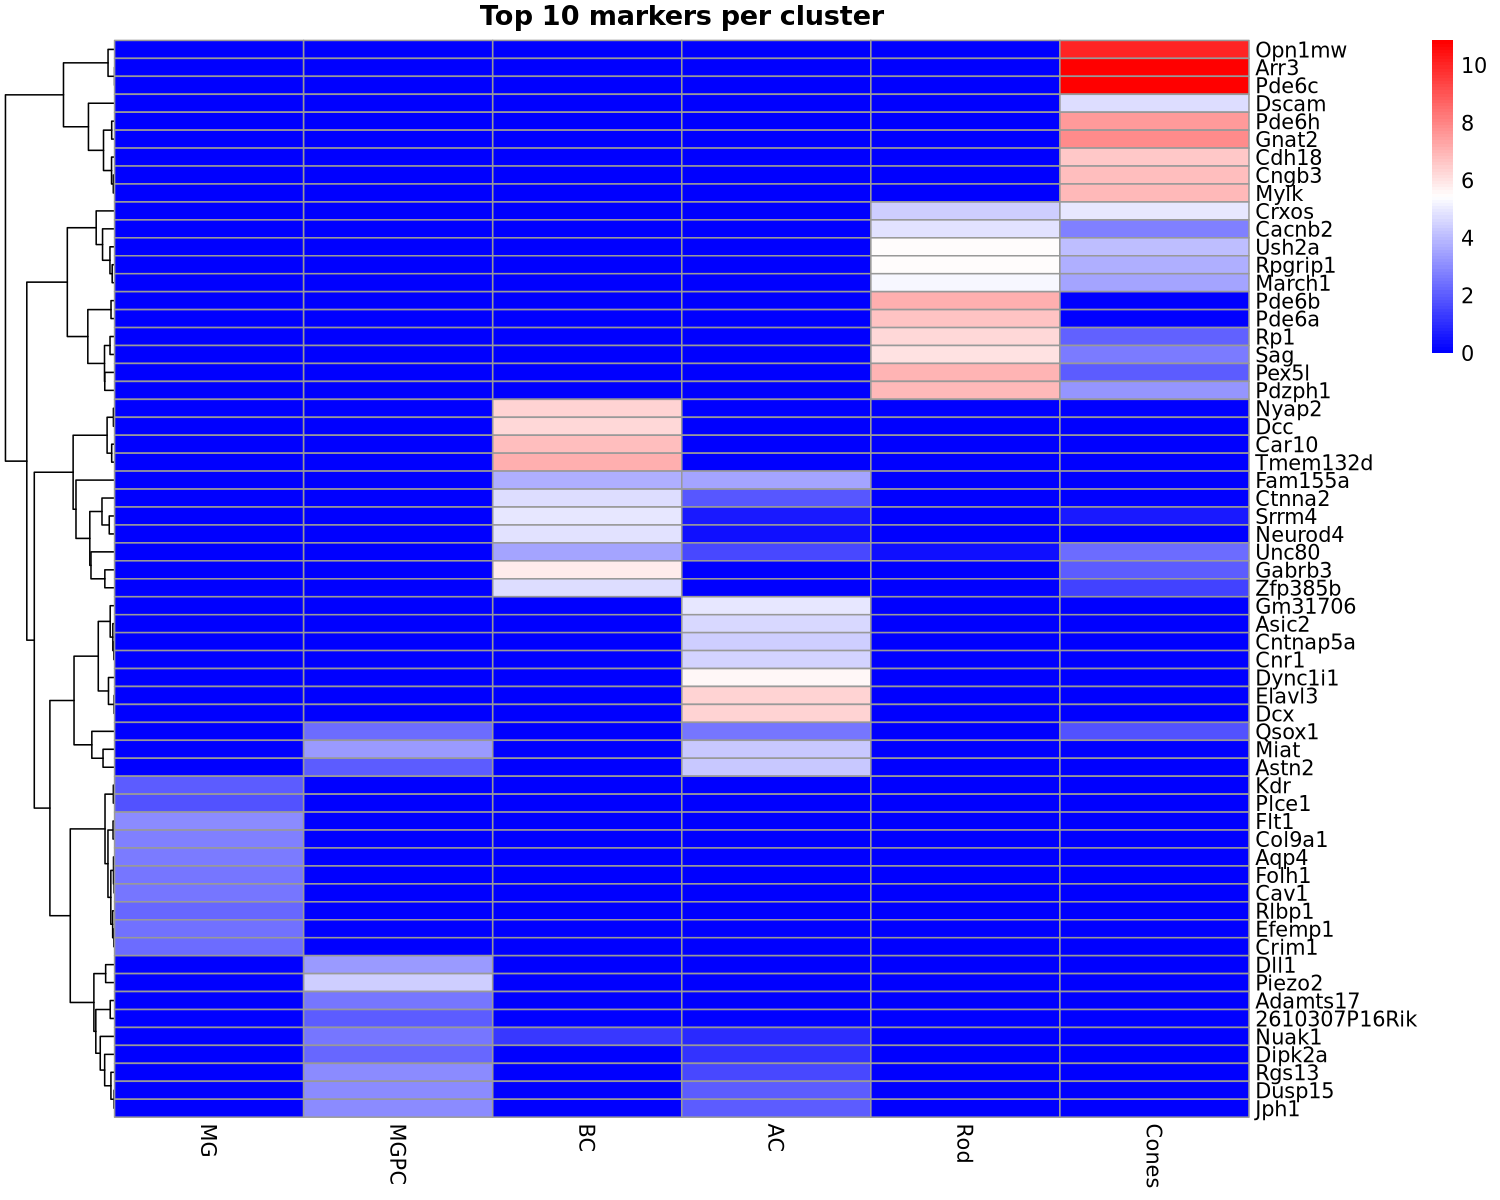
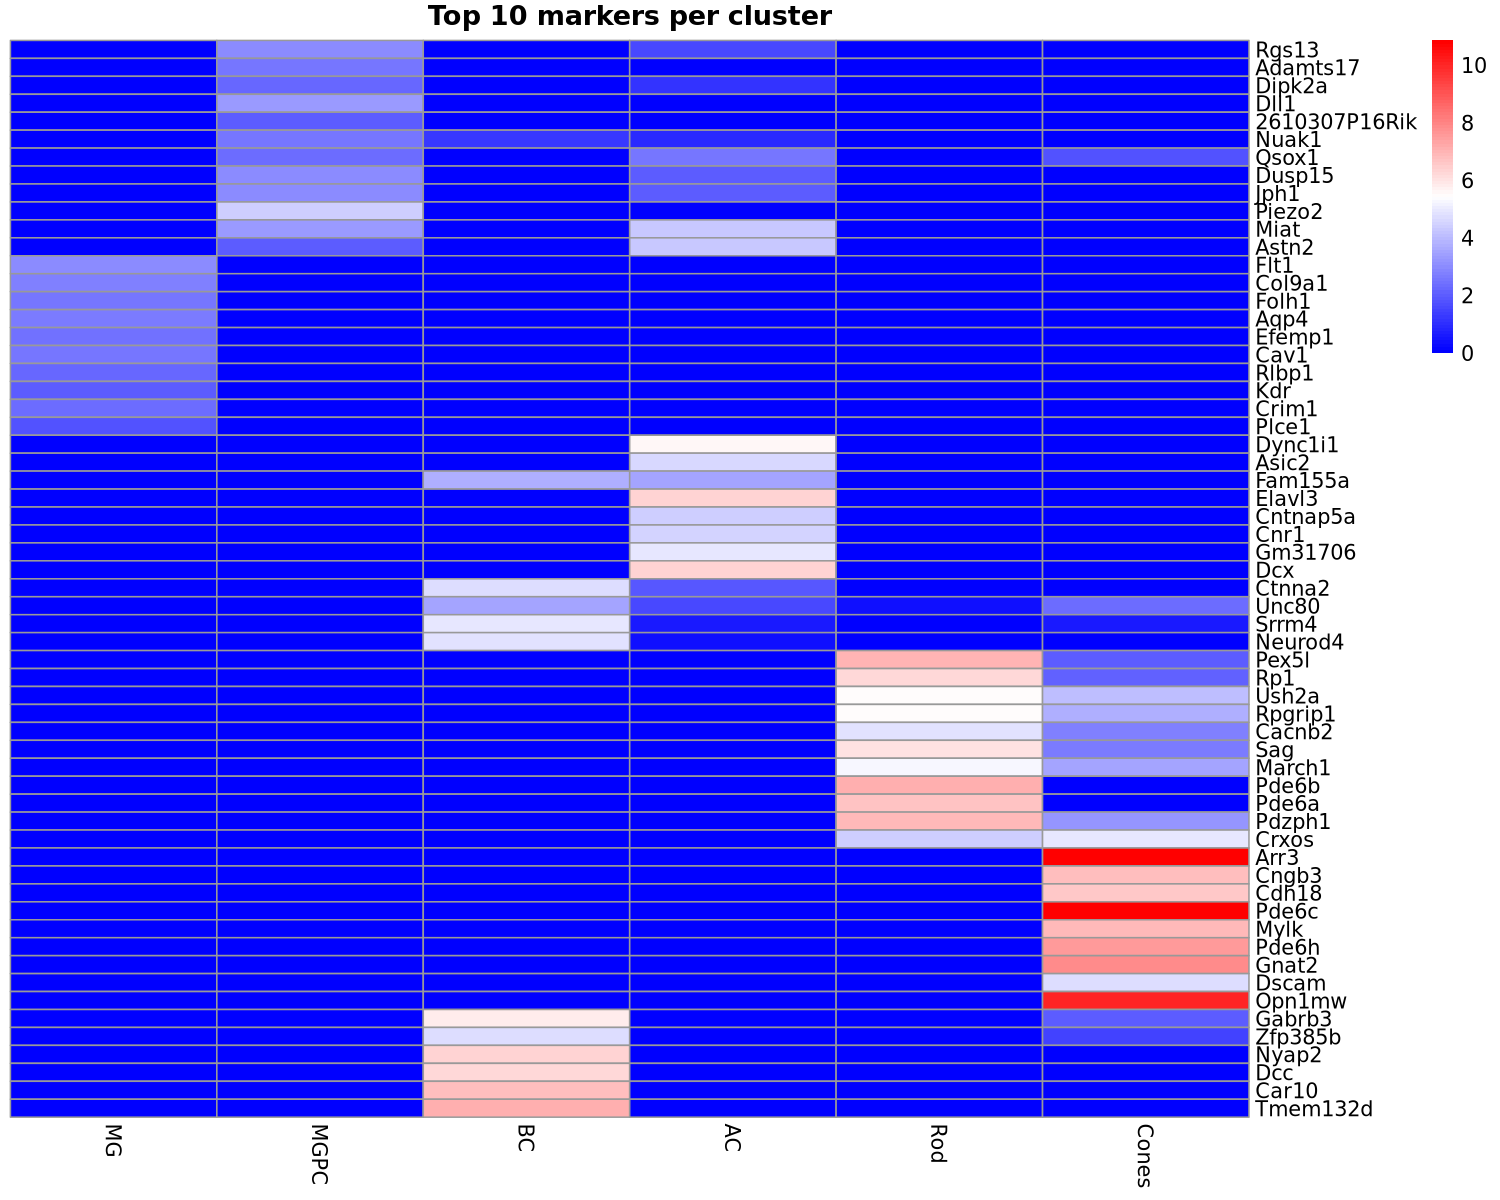
remove dendogram from plotTops

diff --git a/README.md b/README.md
@@ -132,8 +132,7 @@ celltype_markers <- FindAllMarkers(
 
 ##### Select Neurog2-S9A and top 10 markers ranked based on p_val_adj heatmap 
 
-![](figures/Top10_Markers_heatmap.png?v=1) 
-
+![](figures/Top10_Markers_heatmap.png?v=2)
 
 #### Top markers heatmap  
 
